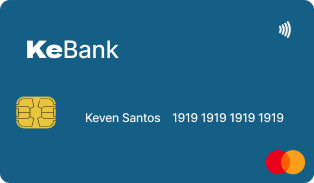
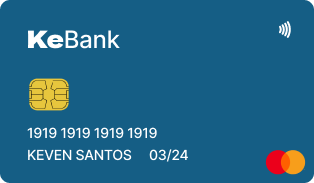
update

diff --git a/TelaLogin/pages/Screens/Mycards/index.js b/TelaLogin/pages/Screens/Mycards/index.js
@@ -1,14 +1,17 @@
-import { View, Text, ScrollView, TextInput, TouchableOpacity, Image } from 'react-native';
+import { View, Text, ScrollView, TouchableOpacity, Image } from 'react-native';
 import styles from './styles';
 import card from '../../../assets/cartao.png'
-import { FlatList } from 'react-native-gesture-handler';
-import { SafeAreaView } from 'react-native';
-import { MaterialCommunityIcons, Feather } from '@expo/vector-icons';
+import cartaoKebank from '../../../assets/cartaoKebank.png'
+import cartaoKebankVerso from '../../../assets/cartaoKebankVerso.png'
 import * as Animatable from 'react-native-animatable';
+import { useState } from 'react';
 
 export default function ScreenCards({ navigation }) {
 
-
+    const[nomeCartao, setNomeCartao] = useState(cartaoKebank)
+    const[animatable, setAnimatable]=useState('')
+    const[reverse, setReverse]=useState('')
+  
     return (
         <ScrollView>
             <View style={styles.container}>
@@ -33,8 +36,26 @@ export default function ScreenCards({ navigation }) {
 
                 </View>
                 <View style={styles.slides}>
-                    <Image source={require('../../../assets/cartaoKebank.png')}
+                    <TouchableOpacity onPress={()=>{
+                    
+                        if(nomeCartao == cartaoKebank){
+                            setAnimatable("flipInX")
+                            setNomeCartao(cartaoKebankVerso)
+                            
+                        }
+                        
+                      else if (nomeCartao == cartaoKebankVerso){
+                        setAnimatable("flipInY")
+                        setNomeCartao(cartaoKebank)
+                   
+                    }
+                    
+            
+                      
+                    }}>
+                    <Animatable.Image animation={animatable}  source={nomeCartao}
                         style={styles.imgSlides} />
+                    </TouchableOpacity>
                 </View>
 
                 <View style={styles.nameSlogan}>
